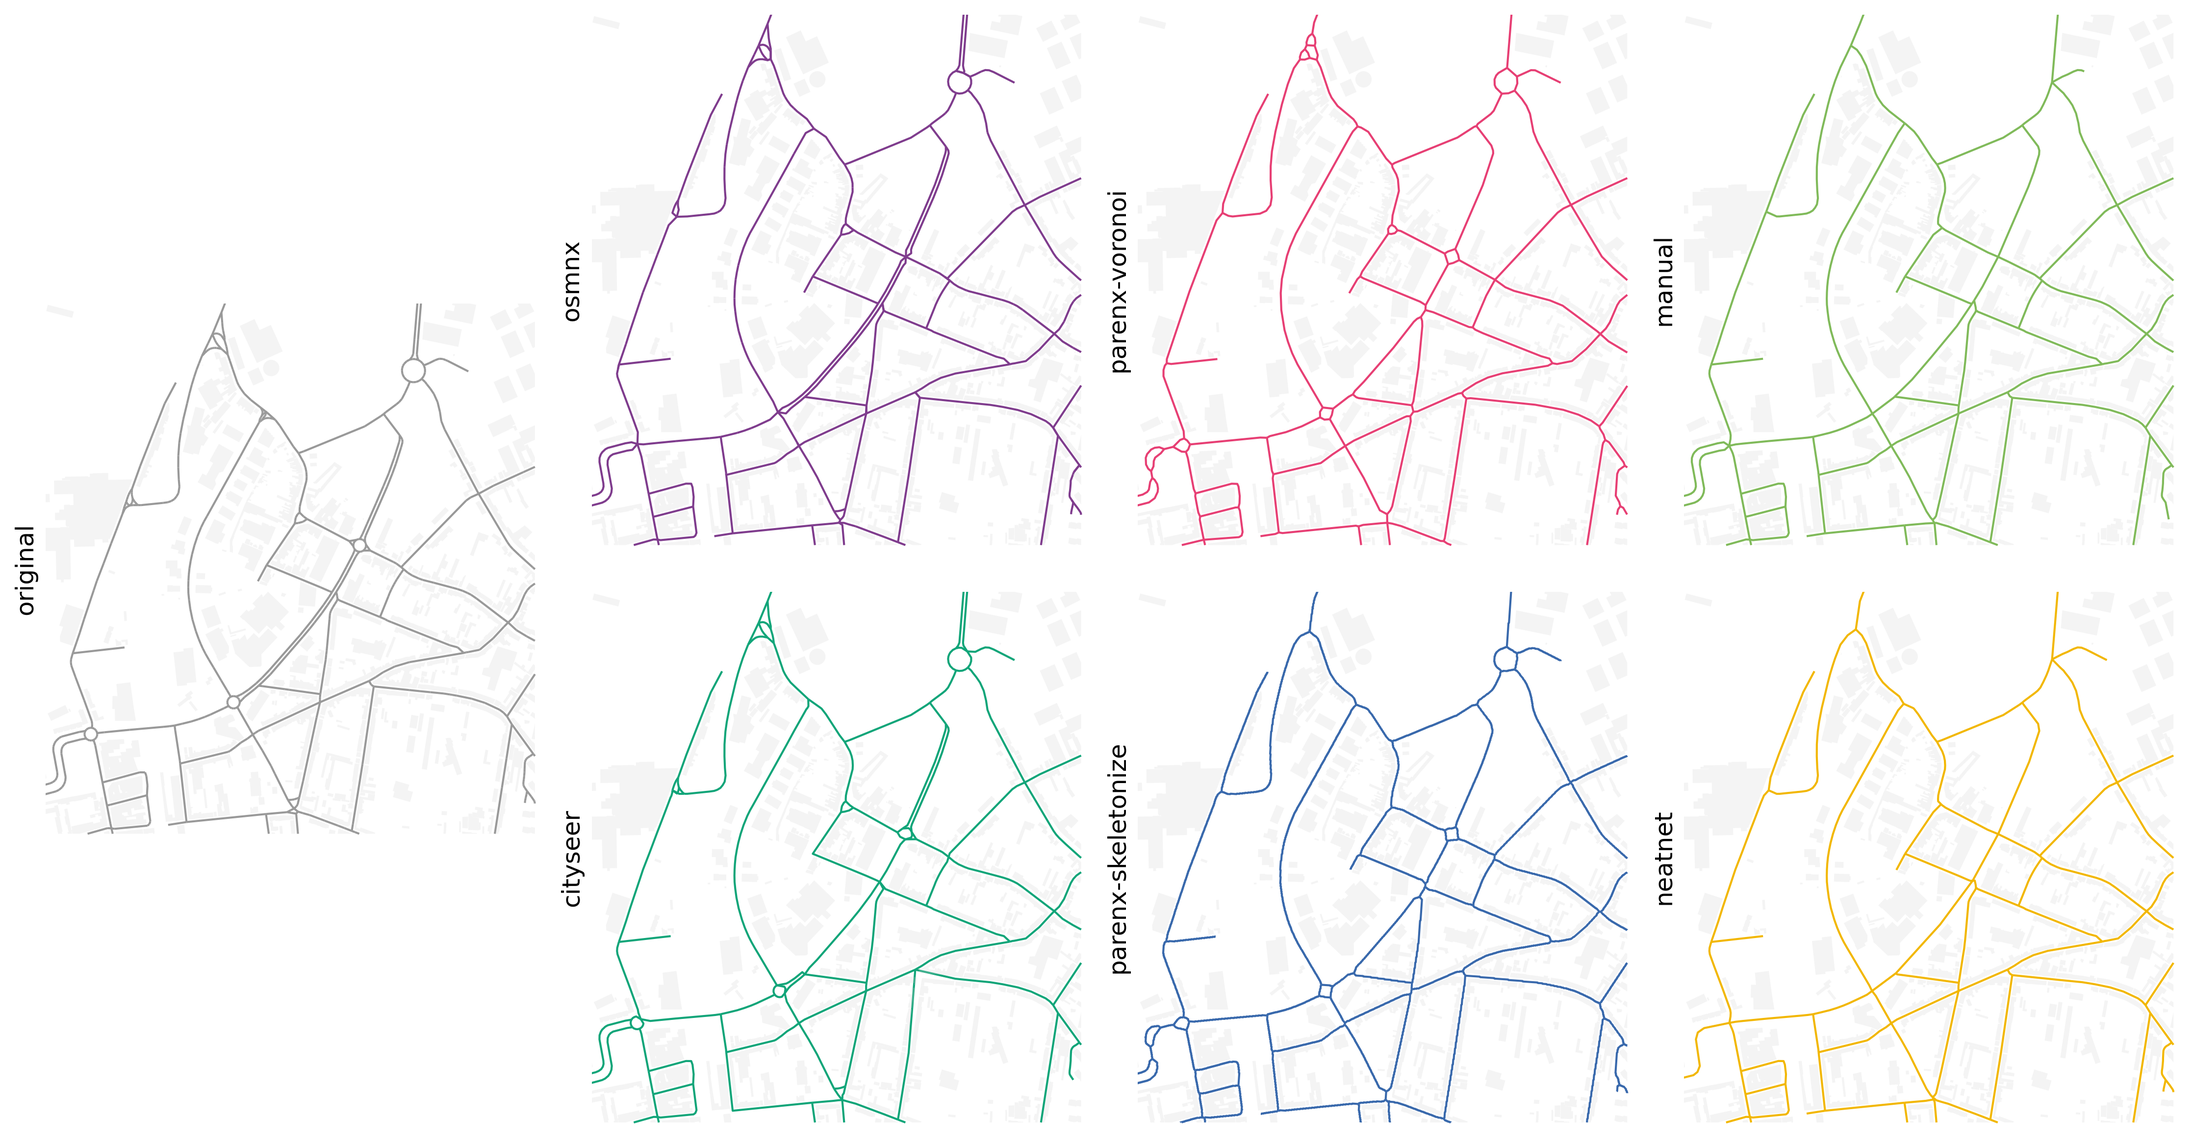
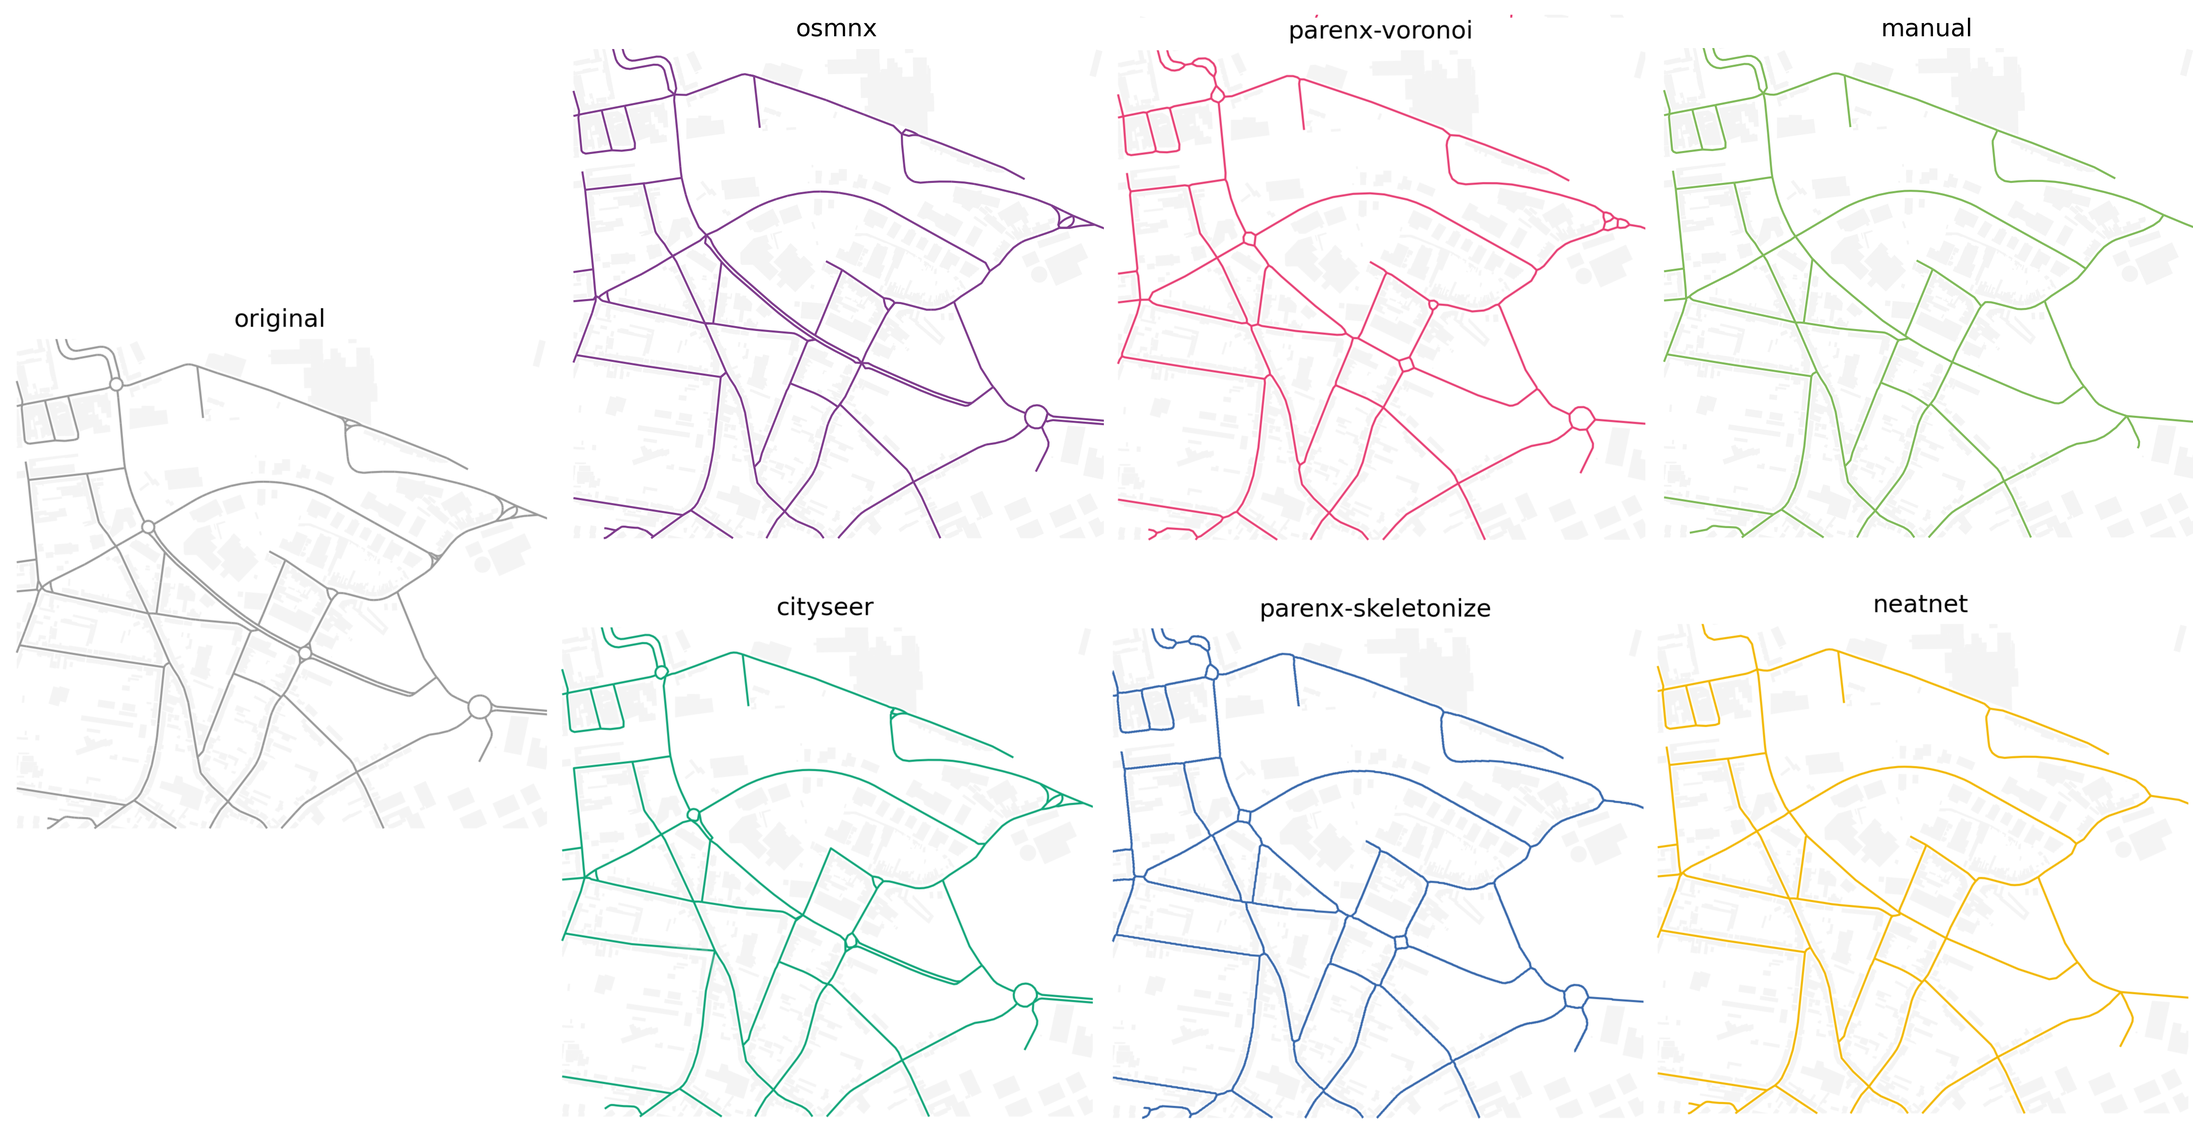
deploy: f959486f8544c88f3fd9b36bf892249ef80d4c82

diff --git a/slides/202511_ILUS.html b/slides/202511_ILUS.html
@@ -155,55 +155,18 @@ Martin Fleischmann
 </section>
 <section class="slide level2">
 
-<!-- Krasen Samardzhiev, Anna Brázdová, Daniela Dančejová, Lisa Winkler, Eliška Pospěchová -->
-<!--
-- I
-- add intro to urban morphology
-- add intro to urban morphometrics70
- -->
 <div class="r-fit-text absolute" style="top: 35%; ">
 <p>urban morphologist</p>
 </div>
 </section>
-<section>
-<section id="a-brief-introduction-into-urban-morphology" class="title-slide slide level1 center">
-<h1>A brief introduction into urban morphology</h1>
-
-</section>
 <section class="slide level2">
 
 <div class="r-fit-text absolute" style="top: 39%; ">
-<p>What is urban morphology?</p>
+<p>Urban morphology is changing.</p>
 </div>
 </section>
 <section class="slide level2">
 
-<blockquote>
-<p>The study of the city as human habitat.</p>
-</blockquote>
-<p>(Moudon, 1997)</p>
-<div class="fragment">
-<blockquote>
-<p>The study of human settlements, their structure and the process of their formation and transformation.</p>
-</blockquote>
-<p>(Kropf, 2017)</p>
-</div>
-<div class="fragment">
-<blockquote>
-<p>The study of urban form.</p>
-</blockquote>
-</div>
-</section>
-<section id="methods-of-analysis" class="slide level2">
-<h2>Methods of analysis</h2>
-<p><span class="fragment">typo-morphological</span> <span class="fragment">(bottom-up)</span></p>
-<p><span class="fragment">historico-geographical</span> <span class="fragment">(top-down)</span></p>
-<p><span class="fragment">…</span></p>
-<p><span class="fragment">urban morphometrics</span></p>
-</section>
-<section class="slide level2">
-
-<!-- examples -->
 <p><img data-src="../figures/202511_ILUS/ex1.png" class="absolute" style="top: 0%; width: 33%; "></p>
 <p><img data-src="../figures/202511_ILUS/ex1_f.png" class="absolute fragment" style="top: 22%; width: 33%; "></p>
 <p><img data-src="../figures/202511_ILUS/ex2.png" class="absolute fragment" style="top: 50%; width: 33%; "></p>
@@ -220,7 +183,7 @@ Martin Fleischmann
 <section class="slide level2">
 
 <div class="r-fit-text absolute" style="top: 39%; ">
-<p>The field is changing</p>
+<p>Urban morphometrics plays a role.</p>
 </div>
 </section>
 <section id="what-is-urban-morphometrics" class="slide level2 question">
@@ -234,7 +197,7 @@ Martin Fleischmann
 </section>
 <section class="slide level2">
 
-<p><img data-src="../figures/202410_Nanjing/morphometrics_conzen.png"></p>
+<p><img data-src="../figures/202410_Nanjing/morphometrics_conzen.png" class="absolute" style="top: 20%; "></p>
 
 <aside><div>
 <p>excerpt from Larkham and Jones, 1991</p>
@@ -246,7 +209,7 @@ Martin Fleischmann
 <p>A study of urban form through the means of quantitative assessment of its constituent elements.</p>
 </blockquote>
 </div>
-<p><span class="fragment">Conceptually similar to historico-geographical approach.</span></p>
+<p><span class="fragment">Conceptually similar to historico-geographical approach in urban morphology.</span></p>
 <p><span class="fragment">Methodologically embedded in spatial data science and geography.</span></p>
 </section>
 <section id="morphometrics-in-2025" class="slide level2">
@@ -276,35 +239,9 @@ Martin Fleischmann
 <p>scalable urban morphometrics</p>
 </div>
 </section>
-<section class="slide level2">
-
-<div class="r-fit-text absolute" style="top: 39%; ">
-<p>How to conceptualise urban form for data science?</p>
-</div>
+<section id="data-pain-points" class="slide level2">
+<h2>Data pain points</h2>
 </section>
-<section id="fundamental-elements-of-urban-form" class="slide level2">
-<h2>Fundamental elements of urban form</h2>
-<div class="fragment">
-<p>buildings</p>
-</div>
-</section>
-<section id="section" class="slide level2 no-text" data-background-image="../figures/202409_Saarbrucken/blg.png" data-background-size="contain">
-<h2></h2>
-
-<aside><div>
-<p>Building layer representing a portion of Prague.</p>
-</div></aside></section>
-<section id="fundamental-elements-of-urban-form-1" class="slide level2">
-<h2>Fundamental elements of urban form</h2>
-<p>buildings</p>
-<p>streets</p>
-</section>
-<section id="section-1" class="slide level2 no-text" data-background-image="../figures/202409_Saarbrucken/edges.png" data-background-size="contain">
-<h2></h2>
-
-<aside><div>
-<p>Street layer representing a portion of Prague.</p>
-</div></aside></section>
 <section class="slide level2">
 
 <div class="r-fit-text absolute" style="top: 39%; ">
@@ -317,11 +254,11 @@ Martin Fleischmann
 <p>A street may not be a street.</p>
 </div>
 </section>
-<section id="section-2" class="slide level2 no-text" data-background-image="../figures/202409_Saarbrucken/net.png" data-background-size="80%">
+<section id="section" class="slide level2 no-text" data-background-image="../figures/202504_GISRUK_simplification/fig_original-manual.png" data-background-size="80%">
 <h2></h2>
 
 <aside><div>
-<p>Transportation vs morphological representation of a street network</p>
+<p>Transportation vs manually-derived morphological representation of a street network</p>
 </div></aside></section>
 <section id="what-to-do" class="slide level2 question">
 <h2>What to do</h2>
@@ -365,23 +302,11 @@ Martin Fleischmann
 <p>Python package <code>neatnet</code></p>
 </div>
 </section>
-<section id="section-3" class="slide level2 no-text" data-background-image="../figures/202511_ILUS/fig_allmethods.png" data-background-size="90%">
+<section id="section-1" class="slide level2 no-text" data-background-image="../figures/202511_ILUS/fig_allmethods.png" data-background-size="90%">
 <h2></h2>
 
 <aside><div>
 <p>Output of different simplification methods for a street network fragment in Seraing, Liège (Belgium).</p>
-</div></aside></section>
-<section id="fundamental-elements-of-urban-form-2" class="slide level2">
-<h2>Fundamental elements of urban form</h2>
-<p>buildings</p>
-<p>streets</p>
-<p>plots</p>
-</section>
-<section id="section-4" class="slide level2 no-text" data-background-image="../figures/202409_Saarbrucken/plots_prg.png" data-background-size="contain">
-<h2></h2>
-
-<aside><div>
-<p>Plot layer representing a portion of Prague.</p>
 </div></aside></section>
 <section class="slide level2">
 
@@ -398,7 +323,7 @@ Martin Fleischmann
 <p>They do not represent morphology</p>
 </div>
 </section>
-<section id="section-5" class="slide level2 no-text" data-background-image="../figures/202409_Saarbrucken/plots.png" data-background-size="contain">
+<section id="section-2" class="slide level2 no-text" data-background-image="../figures/202409_Saarbrucken/plots.png" data-background-size="contain">
 <h2></h2>
 </section>
 <section class="slide level2">
@@ -414,7 +339,7 @@ Martin Fleischmann
 <aside><div>
 <p>Fleischmann, M., Feliciotti, A., Romice, O., Porta, S., 2020. Morphological tessellation as a way of partitioning space: Improving consistency in urban morphology at the plot scale. Computers, Environment and Urban Systems 80, 101441. https://doi.org/10.1016/j.compenvurbsys.2019.101441</p>
 </div></aside></section>
-<section id="section-6" class="slide level2 no-text" data-background-image="../figures/202409_Saarbrucken/mt.png" data-background-size="contain">
+<section id="section-3" class="slide level2 no-text" data-background-image="../figures/202409_Saarbrucken/mt.png" data-background-size="contain">
 <h2></h2>
 
 <aside><div>
@@ -427,17 +352,11 @@ Martin Fleischmann
 <aside><div>
 <p>Arribas-Bel, D., Fleischmann, M., 2022. Spatial Signatures - Understanding (urban) spaces through form and function. Habitat International 128, 102641. https://doi.org/10.1016/j.habitatint.2022.102641</p>
 </div></aside></section>
-<section id="section-7" class="slide level2 no-text" data-background-image="../figures/202409_Saarbrucken/et.png" data-background-size="contain">
+<section id="section-4" class="slide level2 no-text" data-background-image="../figures/202409_Saarbrucken/et.png" data-background-size="contain">
 <h2></h2>
 
 <aside><div>
 <p>Enclosed tessellation</p>
-</div></aside></section>
-<section id="section-8" class="slide level2 no-text" data-background-image="../figures/202409_Saarbrucken/contig_blg.png" data-background-size="contain">
-<h2></h2>
-
-<aside><div>
-<p>Queen contiguity decoding adjacency of geometries</p>
 </div></aside></section>
 <section class="slide level2">
 
@@ -465,7 +384,7 @@ Martin Fleischmann
 </ul>
 </div><aside><div>
 <p>Fleischmann, M., Romice, O., Porta, S., 2020. Measuring urban form: Overcoming terminological inconsistencies for a quantitative and comprehensive morphologic analysis of cities. Environment and Planning B: Urban Analytics and City Science 239980832091044. https://doi.org/10/ggngw6</p>
-</div></aside></section></section>
+</div></aside></section>
 <section>
 <section id="our-take-on-morphometrics" class="title-slide slide level1 center">
 <h1>Our take on morphometrics</h1>
@@ -527,22 +446,22 @@ Martin Fleischmann
 <aside><div>
 <p>Diagram illustrating a procedure to derive Hierarchical Morphotope Classification (HiMoC)</p>
 </div></aside></section>
-<section id="section-9" class="slide level2 no-text" data-background-image="../figures/202511_ILUS/taxonomy.png" data-background-size="contain">
+<section id="section-5" class="slide level2 no-text" data-background-image="../figures/202511_ILUS/taxonomy.png" data-background-size="contain">
 <h2></h2>
 </section>
-<section id="section-10" class="slide level2 no-text" data-background-image="../figures/202511_ILUS/taxonomy_tree.png" data-background-size="contain">
+<section id="section-6" class="slide level2 no-text" data-background-image="../figures/202511_ILUS/taxonomy_tree.png" data-background-size="contain">
 <h2></h2>
 </section>
-<section id="section-11" class="slide level2 no-text" data-background-image="../figures/202511_ILUS/taxonomy_chars.png" data-background-size="contain">
+<section id="section-7" class="slide level2 no-text" data-background-image="../figures/202511_ILUS/taxonomy_chars.png" data-background-size="contain">
 <h2></h2>
 </section>
-<section id="section-12" class="slide level2 no-text" data-background-image="../figures/202511_ILUS/taxonomy_abundance.png" data-background-size="contain">
+<section id="section-8" class="slide level2 no-text" data-background-image="../figures/202511_ILUS/taxonomy_abundance.png" data-background-size="contain">
 <h2></h2>
 </section>
-<section id="section-13" class="slide level2 no-text" data-background-image="../figures/202511_ILUS/taxonomy_mtopes.png" data-background-size="contain">
+<section id="section-9" class="slide level2 no-text" data-background-image="../figures/202511_ILUS/taxonomy_mtopes.png" data-background-size="contain">
 <h2></h2>
 </section>
-<section id="section-14" class="slide level2 no-text" data-background-image="../figures/202511_ILUS/taxonomy.png" data-background-size="contain">
+<section id="section-10" class="slide level2 no-text" data-background-image="../figures/202511_ILUS/taxonomy.png" data-background-size="contain">
 <h2></h2>
 </section>
 <section class="slide level2">
@@ -567,7 +486,7 @@ Martin Fleischmann
 <aside><div>
 <p>Taxonomic tree with a cut marking 2 branches (level 1)</p>
 </div></aside></section>
-<section id="section-15" class="slide level2 no-text" data-background-image="../figures/202511_ILUS/examples_1.png" data-background-size="contain">
+<section id="section-11" class="slide level2 no-text" data-background-image="../figures/202511_ILUS/examples_1.png" data-background-size="contain">
 <h2></h2>
 
 <aside><div>
@@ -584,7 +503,7 @@ Martin Fleischmann
 <aside><div>
 <p>Taxonomic tree with a cut marking 4 branches (level 2)</p>
 </div></aside></section>
-<section id="section-16" class="slide level2 no-text" data-background-image="../figures/202511_ILUS/examples_2.png" data-background-size="contain">
+<section id="section-12" class="slide level2 no-text" data-background-image="../figures/202511_ILUS/examples_2.png" data-background-size="contain">
 <h2></h2>
 
 <aside><div>
@@ -601,7 +520,7 @@ Martin Fleischmann
 <aside><div>
 <p>Taxonomic tree with a cut marking 8 branches (level 3)</p>
 </div></aside></section>
-<section id="section-17" class="slide level2 no-text" data-background-image="../figures/202506_ISUF/examples.png" data-background-size="contain">
+<section id="section-13" class="slide level2 no-text" data-background-image="../figures/202506_ISUF/examples.png" data-background-size="contain">
 <h2></h2>
 
 <aside><div>
@@ -612,7 +531,7 @@ Martin Fleischmann
 <h1>Urban Taxonomy</h1>
 
 </section>
-<section id="section-18" class="slide level2 no-text" data-background-iframe="https://uscuni.org/himoc/" data-background-size="contain">
+<section id="section-14" class="slide level2 no-text" data-background-iframe="https://uscuni.org/himoc/" data-background-size="contain">
 <h2></h2>
 
 <aside><div>
@@ -634,7 +553,7 @@ Martin Fleischmann
 <aside><div>
 <p>Abundance of built fabric types derived from level 3</p>
 </div></aside></section>
-<section id="section-19" class="slide level2 no-text" data-background-image="../figures/202511_ILUS/europe.png" data-background-size="fill">
+<section id="section-15" class="slide level2 no-text" data-background-image="../figures/202511_ILUS/europe.png" data-background-size="fill">
 <h2></h2>
 </section>
 <section class="slide level2">
@@ -648,7 +567,7 @@ Martin Fleischmann
 <aside><div>
 <p>Taxonomic tree with a cut marking 107 branches (level 7)</p>
 </div></aside></section>
-<section id="section-20" class="slide level2 no-text" data-background-image="../figures/202511_ILUS/branch_proportions.png" data-background-size="contain">
+<section id="section-16" class="slide level2 no-text" data-background-image="../figures/202511_ILUS/branch_proportions.png" data-background-size="contain">
 <h2></h2>
 </section>
 <section class="slide level2">
@@ -657,73 +576,73 @@ Martin Fleischmann
 <p>Compression to 2 dimensions using UMAP</p>
 </div>
 </section>
-<section id="section-21" class="slide level2 no-text" data-background-image="../figures/202511_ILUS/umap_components.png" data-background-size="contain" data-transition="none">
+<section id="section-17" class="slide level2 no-text" data-background-image="../figures/202511_ILUS/umap_components.png" data-background-size="contain" data-transition="none">
 <h2></h2>
 
 <aside><div>
 <p>UMAP components reflecting the composition within 50km grid.</p>
 </div></aside></section>
-<section id="section-22" class="slide level2 no-text" data-background-image="../figures/202511_ILUS/umap.png" data-background-size="contain" data-transition="none">
+<section id="section-18" class="slide level2 no-text" data-background-image="../figures/202511_ILUS/umap.png" data-background-size="contain" data-transition="none">
 <h2></h2>
 
 <aside><div>
 <p>Projection of UMAP components</p>
 </div></aside></section>
-<section id="section-23" class="slide level2 no-text" data-background-image="../figures/202511_ILUS/umap_eastern_germany.png" data-background-size="contain" data-transition="none">
+<section id="section-19" class="slide level2 no-text" data-background-image="../figures/202511_ILUS/umap_eastern_germany.png" data-background-size="contain" data-transition="none">
 <h2></h2>
 
 <aside><div>
 <p>Projection of UMAP components</p>
 </div></aside></section>
-<section id="section-24" class="slide level2 no-text" data-background-image="../figures/202511_ILUS/umap_eastern-poland.png" data-background-size="contain" data-transition="none">
+<section id="section-20" class="slide level2 no-text" data-background-image="../figures/202511_ILUS/umap_eastern-poland.png" data-background-size="contain" data-transition="none">
 <h2></h2>
 
 <aside><div>
 <p>Projection of UMAP components</p>
 </div></aside></section>
-<section id="section-25" class="slide level2 no-text" data-background-image="../figures/202511_ILUS/umap_pl_outliers.png" data-background-size="contain" data-transition="none">
+<section id="section-21" class="slide level2 no-text" data-background-image="../figures/202511_ILUS/umap_pl_outliers.png" data-background-size="contain" data-transition="none">
 <h2></h2>
 
 <aside><div>
 <p>Projection of UMAP components</p>
 </div></aside></section>
-<section id="section-26" class="slide level2 no-text" data-background-image="../figures/202511_ILUS/umap_cz-pl.png" data-background-size="contain" data-transition="none">
+<section id="section-22" class="slide level2 no-text" data-background-image="../figures/202511_ILUS/umap_cz-pl.png" data-background-size="contain" data-transition="none">
 <h2></h2>
 
 <aside><div>
 <p>Projection of UMAP components</p>
 </div></aside></section>
-<section id="section-27" class="slide level2 no-text" data-background-image="../figures/202511_ILUS/umap_galicia.png" data-background-size="contain" data-transition="none">
+<section id="section-23" class="slide level2 no-text" data-background-image="../figures/202511_ILUS/umap_galicia.png" data-background-size="contain" data-transition="none">
 <h2></h2>
 
 <aside><div>
 <p>Projection of UMAP components</p>
 </div></aside></section>
-<section id="section-28" class="slide level2 no-text" data-background-image="../figures/202511_ILUS/umap_be.png" data-background-size="contain" data-transition="none">
+<section id="section-24" class="slide level2 no-text" data-background-image="../figures/202511_ILUS/umap_be.png" data-background-size="contain" data-transition="none">
 <h2></h2>
 
 <aside><div>
 <p>Projection of UMAP components</p>
 </div></aside></section>
-<section id="section-29" class="slide level2 no-text" data-background-image="../figures/202511_ILUS/umap_be_top.png" data-background-size="contain" data-transition="none">
+<section id="section-25" class="slide level2 no-text" data-background-image="../figures/202511_ILUS/umap_be_top.png" data-background-size="contain" data-transition="none">
 <h2></h2>
 
 <aside><div>
 <p>Projection of UMAP components</p>
 </div></aside></section>
-<section id="section-30" class="slide level2 no-text" data-background-image="../figures/202511_ILUS/umap_be_mid.png" data-background-size="contain" data-transition="none">
+<section id="section-26" class="slide level2 no-text" data-background-image="../figures/202511_ILUS/umap_be_mid.png" data-background-size="contain" data-transition="none">
 <h2></h2>
 
 <aside><div>
 <p>Projection of UMAP components</p>
 </div></aside></section>
-<section id="section-31" class="slide level2 no-text" data-background-image="../figures/202511_ILUS/umap_be_nl.png" data-background-size="contain" data-transition="none">
+<section id="section-27" class="slide level2 no-text" data-background-image="../figures/202511_ILUS/umap_be_nl.png" data-background-size="contain" data-transition="none">
 <h2></h2>
 
 <aside><div>
 <p>Projection of UMAP components</p>
 </div></aside></section>
-<section id="section-32" class="slide level2 no-text" data-background-image="../figures/202511_ILUS/belgium.png" data-background-size="fill">
+<section id="section-28" class="slide level2 no-text" data-background-image="../figures/202511_ILUS/belgium.png" data-background-size="fill">
 <h2></h2>
 </section></section>
 <section>
